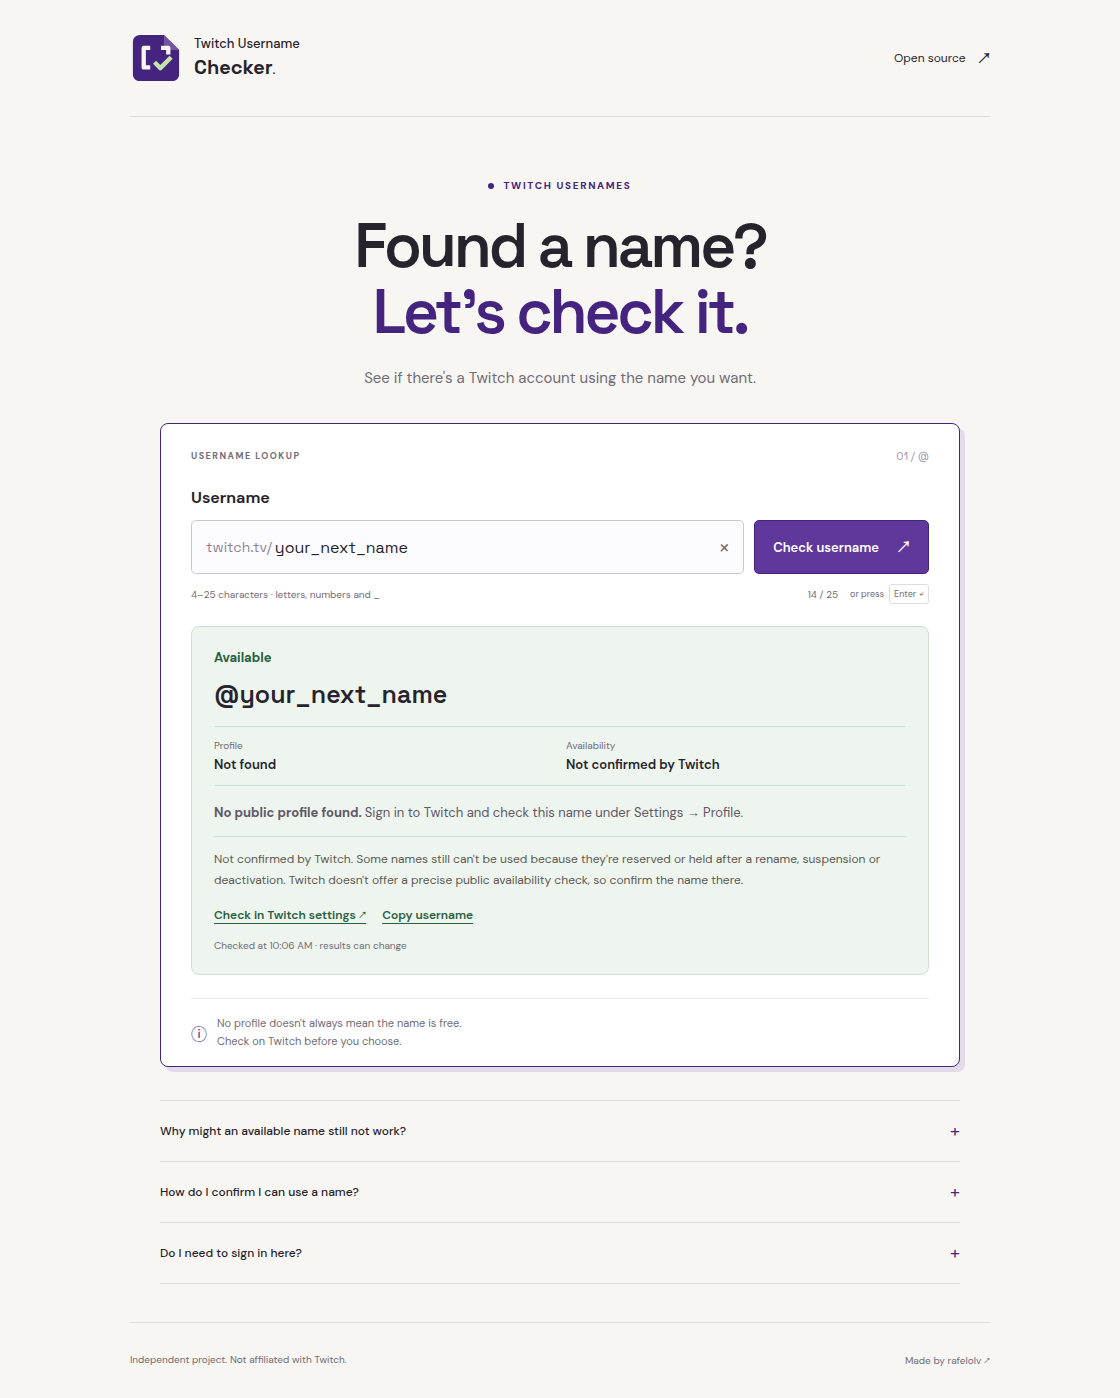
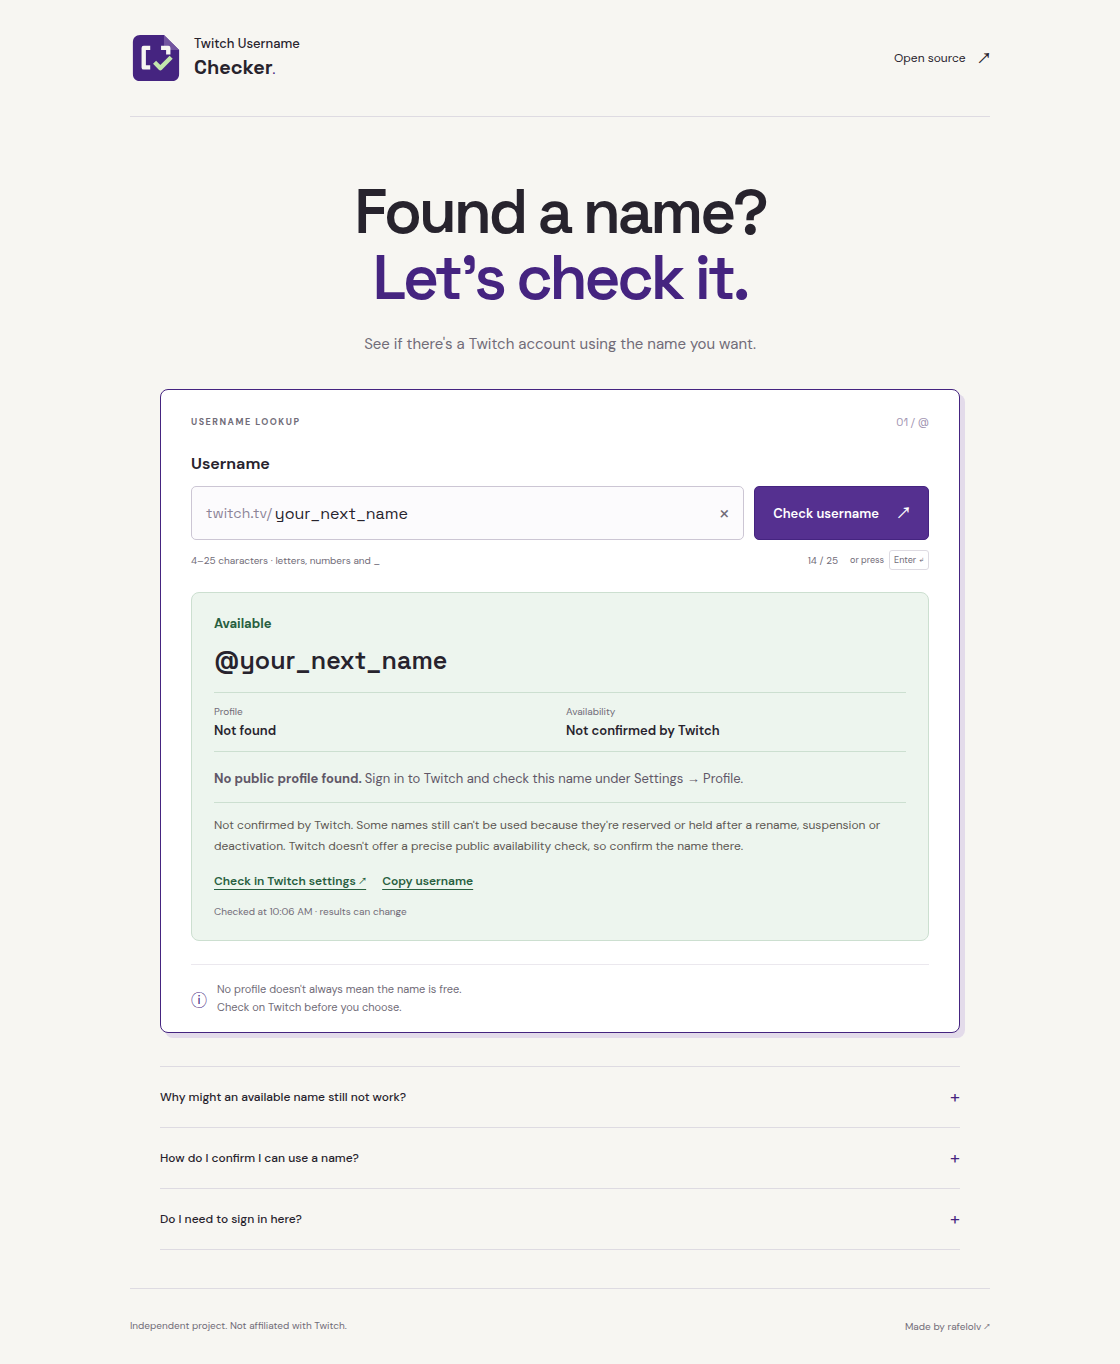
style: remove decorative heading label

diff --git a/styles.css b/styles.css
@@ -106,23 +106,6 @@ button[hidden],
   text-align: center;
   padding: 62px 0 32px;
 }
-.eyebrow {
-  font-size: 10px;
-  letter-spacing: 1.65px;
-  font-weight: 700;
-  color: var(--purple);
-  display: flex;
-  gap: 9px;
-  align-items: center;
-  justify-content: center;
-  margin: 0 0 21px;
-}
-.eyebrow span {
-  height: 6px;
-  width: 6px;
-  background: var(--purple);
-  border-radius: 50%;
-}
 h1 {
   font-family: "Space Grotesk", sans-serif;
   font-size: clamp(39px, 6.8vw, 62px);
@@ -500,10 +483,6 @@ details a {
   }
   .hero {
     padding: 43px 0 29px;
-  }
-  .eyebrow {
-    font-size: 8px;
-    letter-spacing: 1.15px;
   }
   h1 {
     letter-spacing: -2px;

diff --git a/index.html b/index.html
@@ -39,7 +39,6 @@
     </header>
     <main class="wrap">
       <section class="hero" aria-labelledby="hero-title">
-        <p class="eyebrow"><span></span> TWITCH USERNAMES</p>
         <h1 id="hero-title">Found a name?<br /><span>Let's check it.</span></h1>
         <p class="intro">
           See if there's a Twitch account using the name you want.

diff --git a/docs/VALIDATION.md b/docs/VALIDATION.md
@@ -220,3 +220,8 @@ Limitations:
   colors, uniform 1px borders, labels, fallback warnings, failed requests and a
   320px layout without JS errors. Visually inspected the result and refreshed the
   README with an example response. No new live API check was needed.
+
+## 1.0.10 heading cleanup — 2026-10-17
+
+- Removed the decorative Twitch Usernames label and its styles. Syntax/unit
+  checks and a local Chrome heading/result smoke check passed; README preview refreshed.

diff --git a/CHANGELOG.md b/CHANGELOG.md
@@ -3,6 +3,10 @@
 Versions follow three-part semver; `package.json` is the version source.
 Entries remain Unreleased until publication is verified.
 
+## 1.0.10
+
+- Remove the decorative label above the main heading and its unused styles.
+
 ## 1.0.9
 
 - Highlight Available with soft sage and Unavailable with muted clay, without
